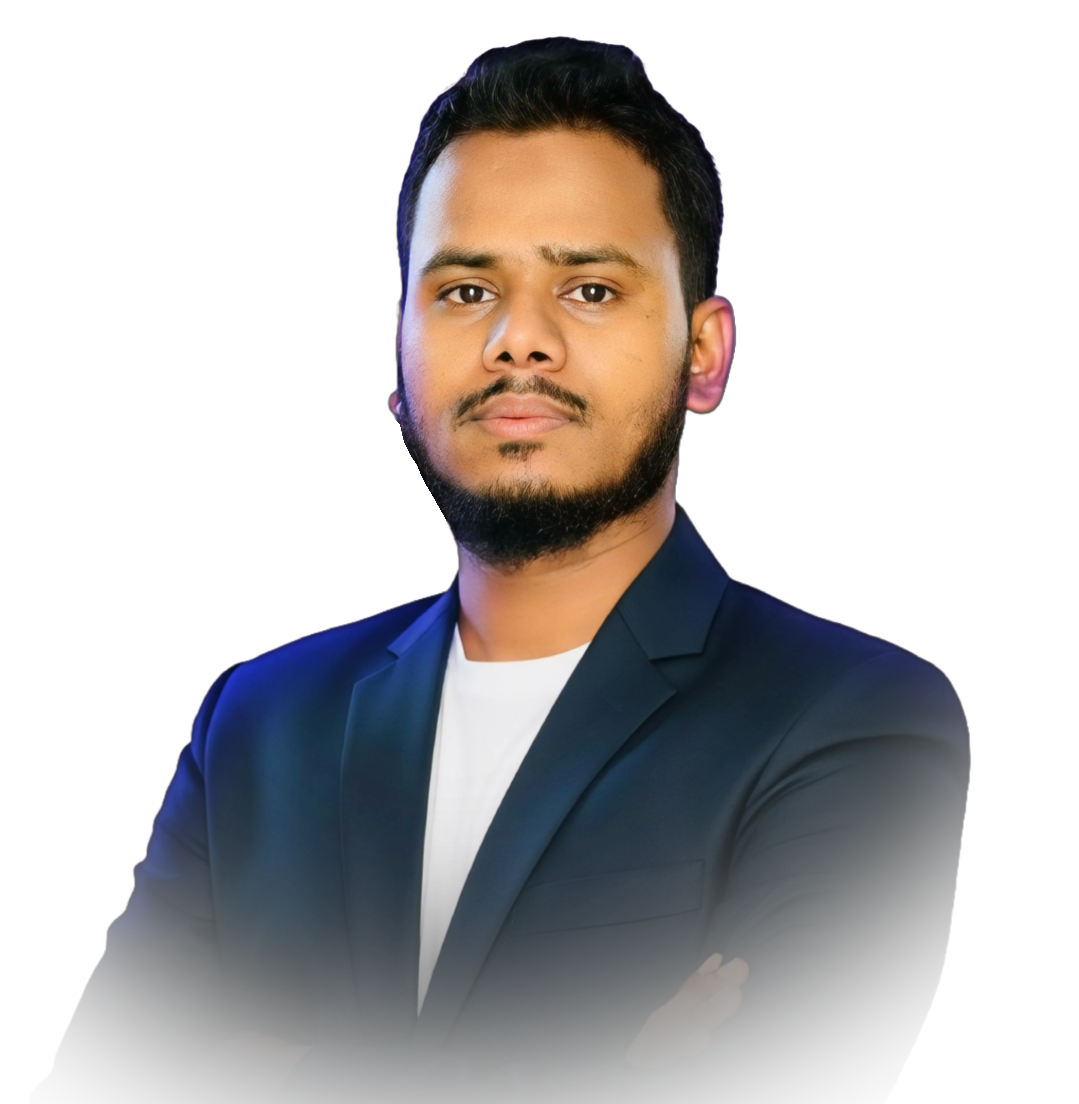
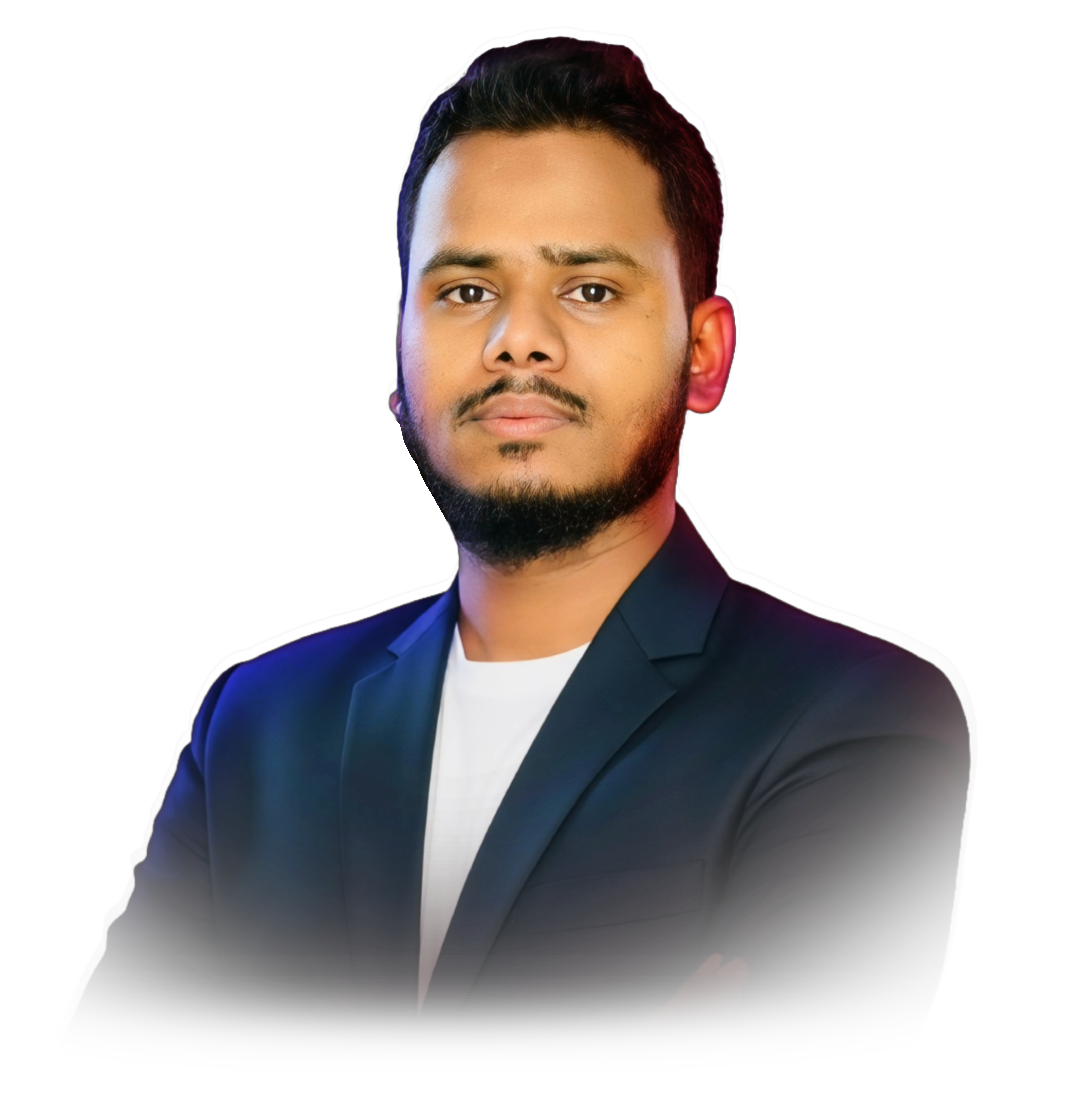
Remove glow effect around hero portrait image

diff --git a/index.html b/index.html
@@ -40,7 +40,7 @@
     <link rel="apple-touch-icon" href="favicon.png">
 
     <!-- Custom Design System Stylesheet -->
-    <link rel="stylesheet" href="style.css?v=21">
+    <link rel="stylesheet" href="style.css?v=22">
 </head>
 
 <body class="antialiased selection:bg-[#E11D48] selection:text-white">
@@ -137,7 +137,6 @@
                  pure red over the background and darkens only where it crosses the photo. -->
             <div class="hero-stage" id="hero-stage">
                 <figure class="hero-me" aria-label="Noor Alam">
-                    <img class="hero-me-outline" src="Assets/image_me.png" alt="" aria-hidden="true" width="1079" height="1104">
                     <img class="hero-me-photo" src="Assets/image_me.png" alt="Noor Alam" width="1079" height="1104" fetchpriority="high" decoding="async">
                 </figure>
 

diff --git a/style.css b/style.css
@@ -754,16 +754,8 @@ body.dark-mode #hero-typing-cur::after {
     object-fit: contain;
 }
 
-/* Red outline: a copy of the photo behind it, haloed in red. It fades out above the
-   photo's soft bottom edge so the faded body doesn't turn red. */
 .hero-me .hero-me-outline {
-    position: absolute;
-    inset: 0;
-    filter: drop-shadow(0 0 1px var(--hero-red))
-        drop-shadow(0 0 1px var(--hero-red))
-        drop-shadow(0 0 6px rgba(237, 0, 36, 0.5));
-    -webkit-mask-image: linear-gradient(to bottom, #000 50%, transparent 70%);
-    mask-image: linear-gradient(to bottom, #000 50%, transparent 70%);
+    display: none !important;
 }
 
 .hero-me .hero-me-photo {
